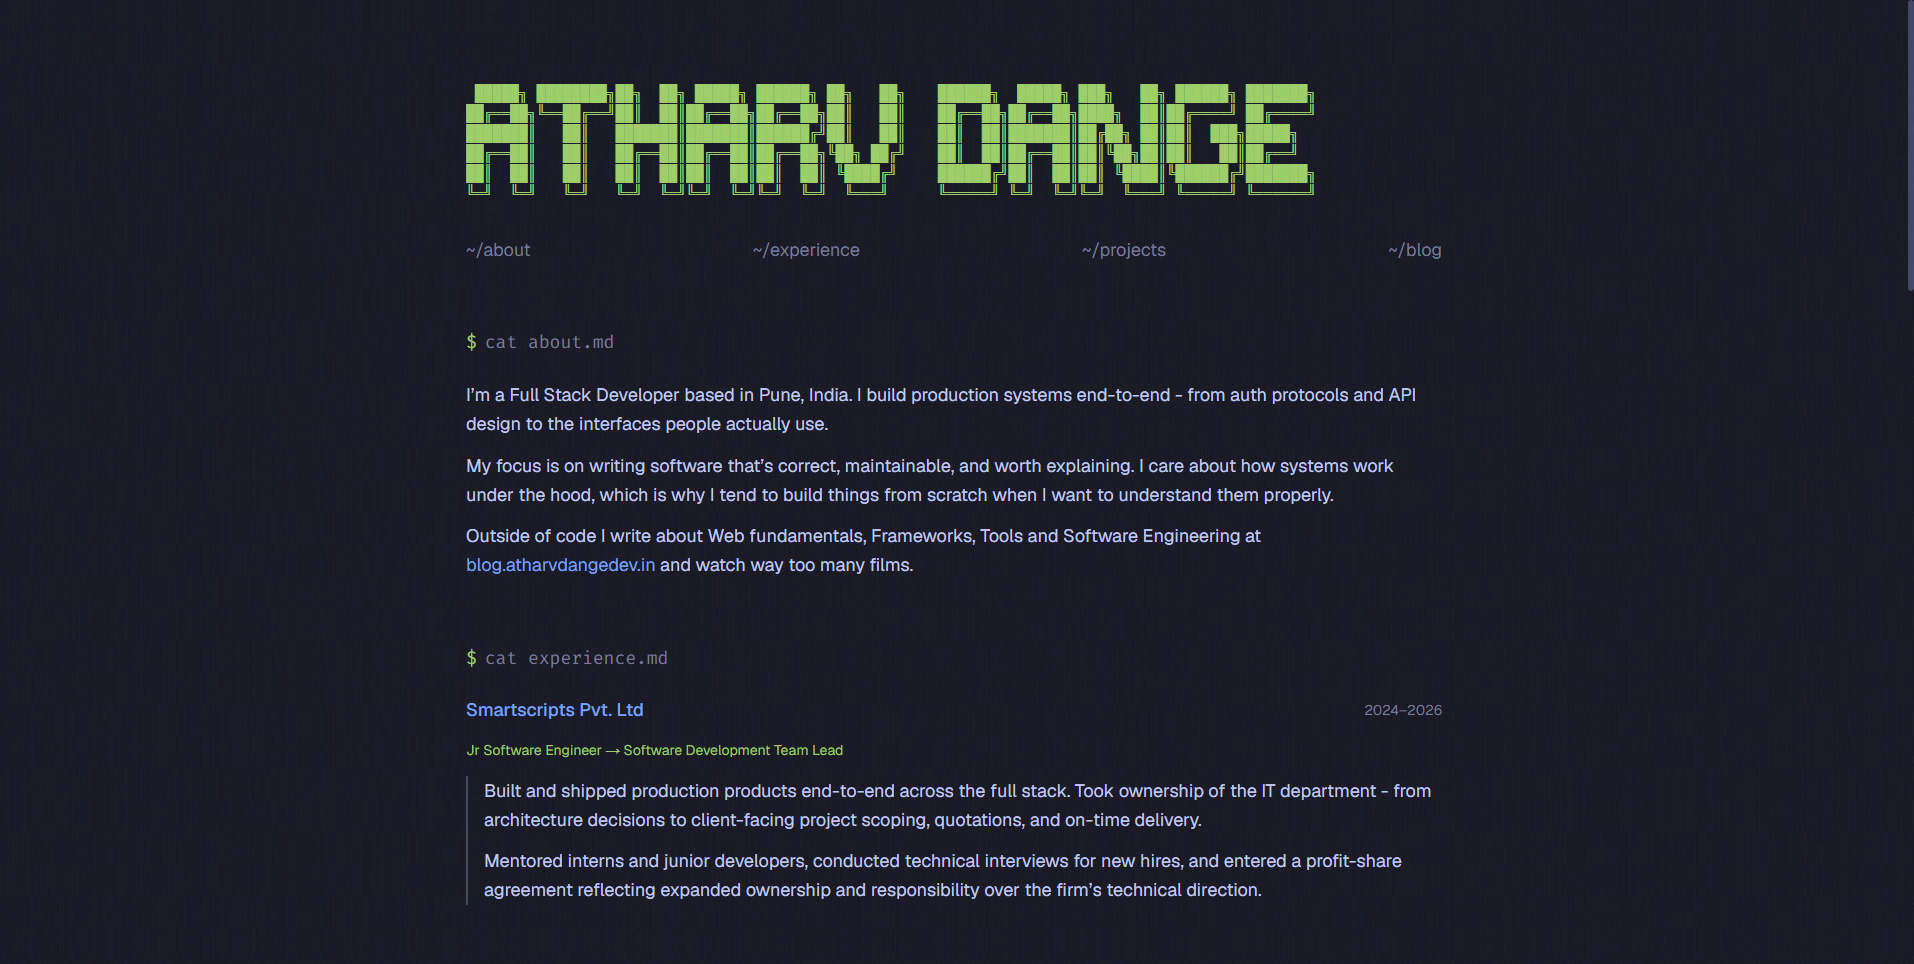
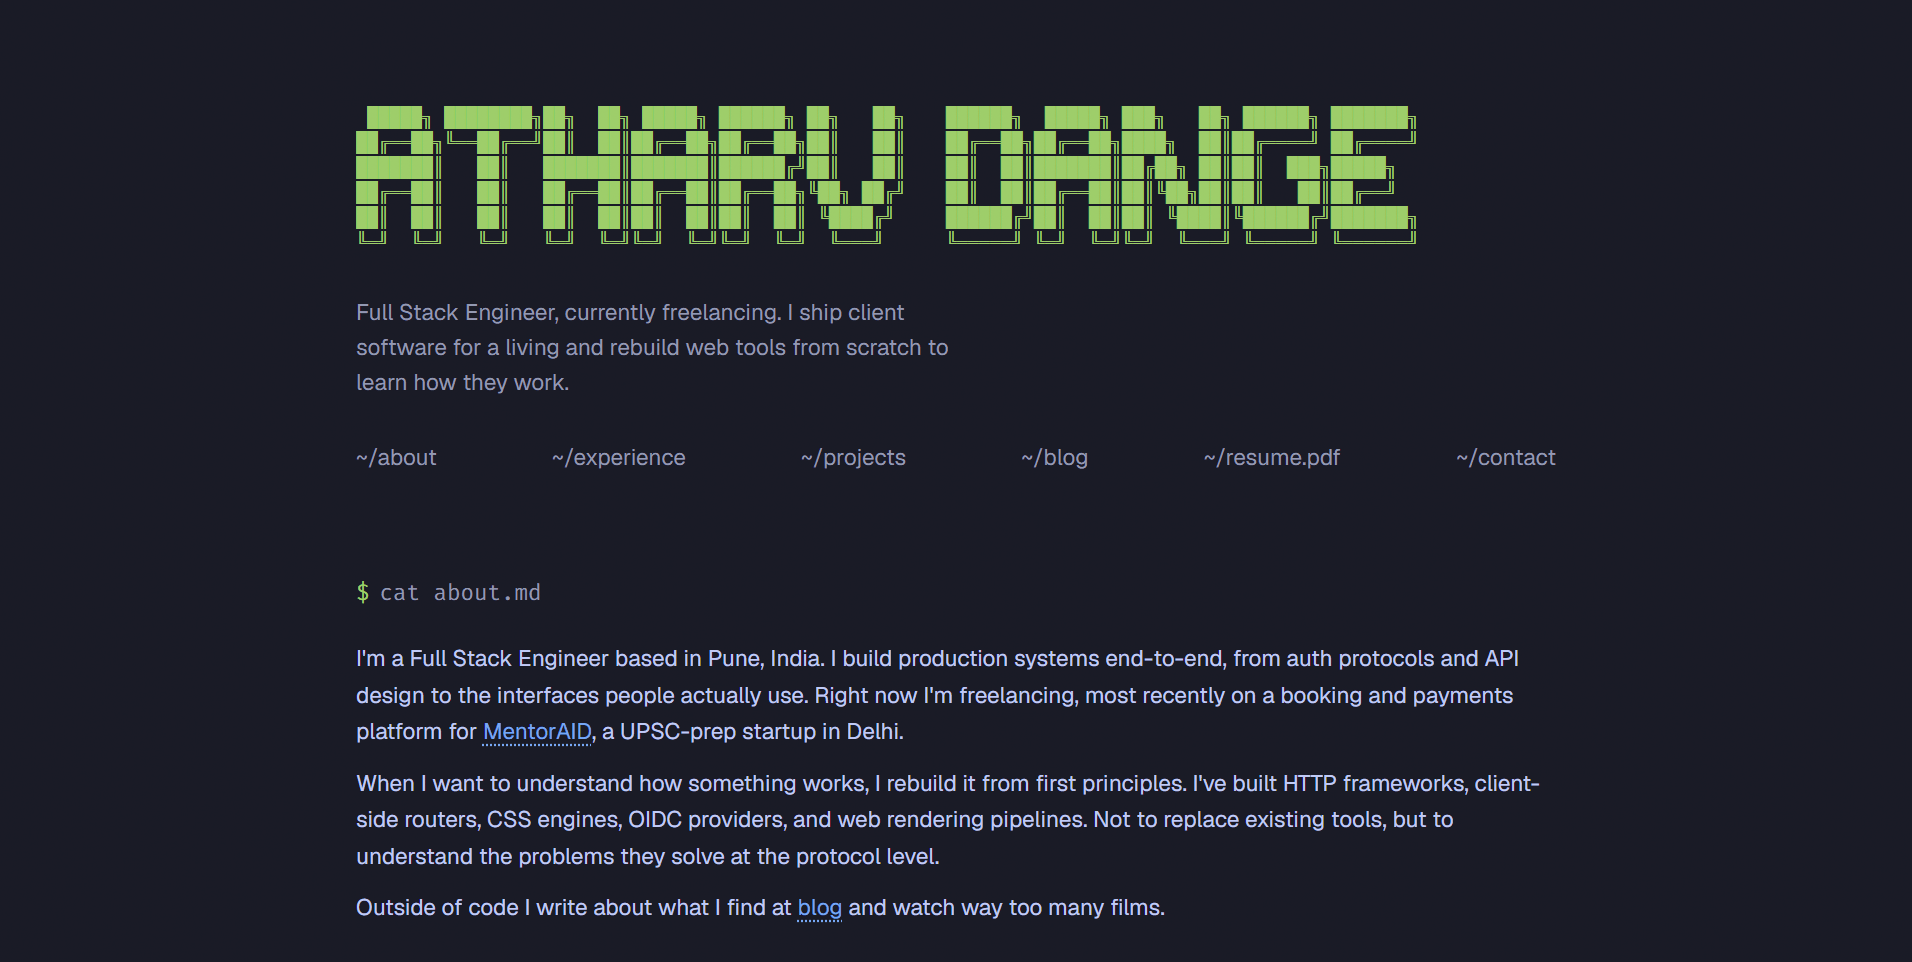
chore(seo): refresh OG image and fix its declared dimensions
Retake the share image with the current hero and about copy, and
compress it with pngquant from 1.5 MB to 331 KB so link previews load
on WhatsApp and LinkedIn. Update width and height to match the file.

diff --git a/v3-portfolio/app/layout.tsx b/v3-portfolio/app/layout.tsx
@@ -48,8 +48,8 @@ export const metadata: Metadata = {
     images: [
       {
         url: "/og-image.png",
-        width: 1914,
-        height: 964,
+        width: 1912,
+        height: 962,
         alt: "Atharv Dange - Full Stack Engineer Portfolio",
       },
     ],

diff --git a/v3-portfolio/app/blog/[slug]/page.tsx b/v3-portfolio/app/blog/[slug]/page.tsx
@@ -43,8 +43,8 @@ export async function generateMetadata({
       images: [
         {
           url: "/og-image.png",
-          width: 1914,
-          height: 964,
+          width: 1912,
+          height: 962,
           alt: fm.title,
         },
       ],

diff --git a/v3-portfolio/app/projects/[slug]/page.tsx b/v3-portfolio/app/projects/[slug]/page.tsx
@@ -43,8 +43,8 @@ export async function generateMetadata({
       images: [
         {
           url: "/og-image.png",
-          width: 1914,
-          height: 964,
+          width: 1912,
+          height: 962,
           alt: fm.title,
         },
       ],
